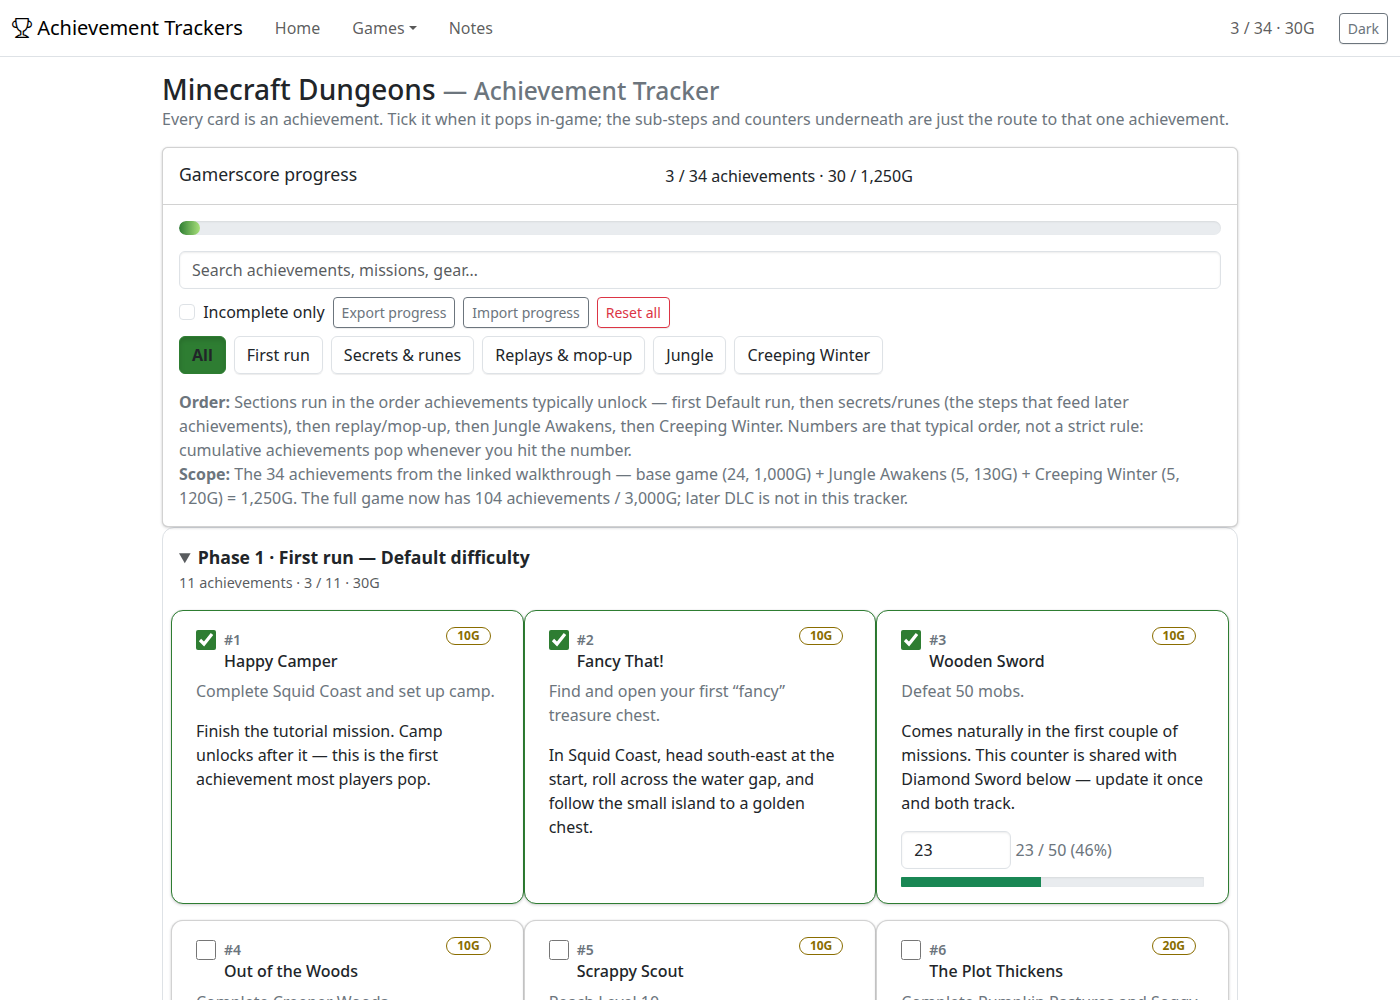
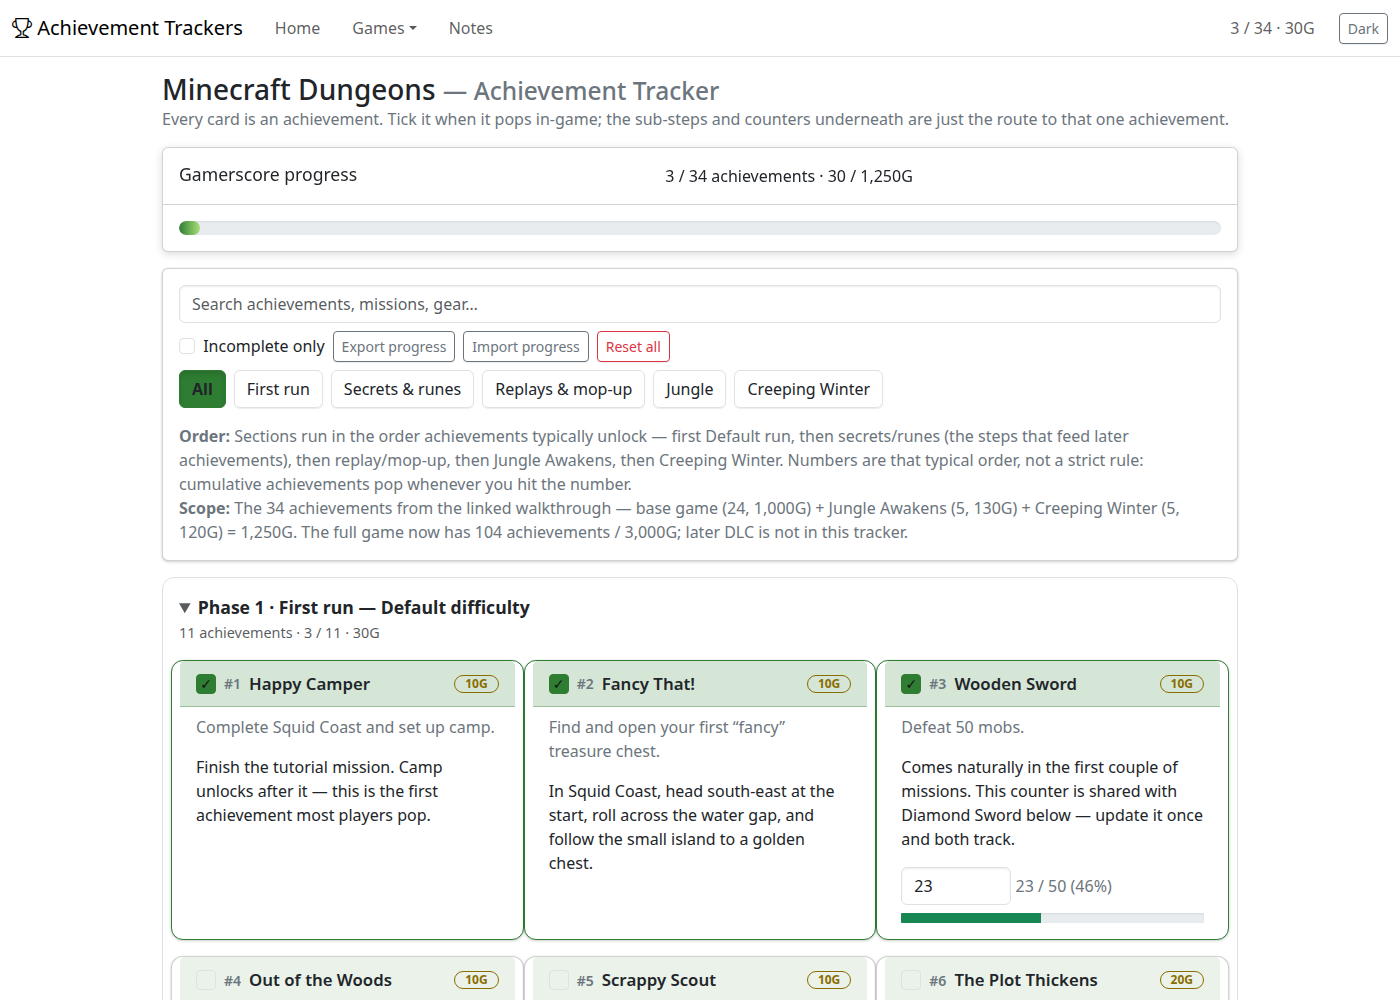
achievement-trackers: slim sticky progress bar, colorized centered headers

diff --git a/minecraft-dungeons/index.html b/minecraft-dungeons/index.html
@@ -30,31 +30,40 @@
      moss green + gold on a contained column — kept inside the
      AdminLTE shell (navbar, theme toggle, cards) rather than
      reverting to the standalone page. */
-  :root{--at-green:#2e7d32;--at-gold:#8a6d00}
-  [data-bs-theme="dark"]{--at-green:#7bc950;--at-gold:#e8b93c}
+  :root{--at-green:#2e7d32;--at-gold:#8a6d00;--at-header-bg:rgba(46,125,50,.10);--at-header-bg-pressed:rgba(46,125,50,.20);--at-header-border:rgba(46,125,50,.35)}
+  [data-bs-theme="dark"]{--at-green:#7bc950;--at-gold:#e8b93c;--at-header-bg:rgba(123,201,80,.13);--at-header-bg-pressed:rgba(123,201,80,.22);--at-header-border:rgba(123,201,80,.35)}
   /* v2's contained column, not AdminLTE's full-width fluid layout. */
   .app-main .container-fluid{max-width:1100px;margin-left:auto;margin-right:auto}
   /* Cards are grid columns: kill the card's own bottom margin so the
      row gutter is the only vertical spacing, and unify the header
      with the body (v2 had no divider strip inside a card). */
   .ach{margin-bottom:0;border-radius:12px}
-  .ach .card-header{background:transparent;border-bottom:0;padding-bottom:0}
+  /* Colorized headers: a green-tinted header with a green rule stands
+     out against the plain card body, instead of blending into it as
+     the old transparent header did. Pressed cards get a stronger tint. */
+  .ach .card-header{background:var(--at-header-bg);border-bottom:1px solid var(--at-header-border);padding-bottom:0}
   .ach .card-body{padding-top:.5rem}
   .ach:has(button.task[aria-pressed="true"]){border-color:var(--at-green)}
+  .ach:has(button.task[aria-pressed="true"]) .card-header{background:var(--at-header-bg-pressed)}
   /* The whole achievement header is the toggle: a button, not a small
      checkbox. The state box is only an indicator — the clickable area
      is the full header (name + Gamerscore), and the button's text
      content ("#1 Happy Camper 10G") is its accessible name. */
   .ach-head{padding:0}
-  .ach-head button.task{display:flex;gap:.5rem;align-items:flex-start;width:100%;text-align:left;background:transparent;border:0;padding:.75rem 1rem 0;color:inherit;cursor:pointer}
+  /* Header elements are vertically centered with each other: state
+     box, number, title and Gamerscore pill share one middle line,
+     instead of all sitting on the top edge. */
+  .ach-head button.task{display:flex;gap:.5rem;align-items:center;width:100%;text-align:left;background:transparent;border:0;padding:.75rem 1rem .75rem;color:inherit;cursor:pointer}
   .ach-head button.task:focus-visible{outline:2px solid var(--at-green);outline-offset:2px;border-radius:6px}
-  .task-state{width:20px;height:20px;flex:none;margin-top:3px;border:1px solid var(--bs-border-color);border-radius:4px;display:inline-flex;align-items:center;justify-content:center;font-size:14px;line-height:1}
+  .task-state{width:20px;height:20px;flex:none;border:1px solid var(--bs-border-color);border-radius:4px;display:inline-flex;align-items:center;justify-content:center;font-size:14px;line-height:1}
   button.task[aria-pressed="true"] .task-state{background:var(--at-green);border-color:var(--at-green);color:#12140f}
   button.task[aria-pressed="true"] .task-state::after{content:"✓"}
   .ach-name{font-size:1.05rem;line-height:1.3;font-weight:600;flex:1 1 auto}
-  /* Gamerscore progress card: pinned to the top of the viewport while
-     scrolling (the navbar scrolls away first, so top: 0 is right),
-     with a full 1rem gap before the first section. */
+  /* Only the progress bar card is pinned: the slim card holding the
+     Gamerscore title, counts and bar sticks to the top of the
+     viewport while scrolling (the navbar scrolls away first, so
+     top: 0 is right). Search, filters and the Order/Scope text live
+     in the card below it and scroll away normally. */
   .progress-card{position:sticky;top:0;z-index:1030;margin-bottom:1rem;box-shadow:0 2px 8px rgba(0,0,0,.15)}
   /* Gold outline pill, as in v2 — not Bootstrap's solid warning badge. */
   .ach .gs{background:transparent !important;color:var(--at-gold) !important;border:1px solid var(--at-gold);border-radius:99px;padding:2px 10px;font-weight:700;white-space:nowrap}
@@ -135,7 +144,12 @@
             <div class="progress" role="progressbar" aria-label="Gamerscore progress">
               <div class="progress-bar bg-success" id="overallBar" style="width:0%"></div>
             </div>
-            <div class="controls d-flex flex-wrap gap-2 align-items-center mt-3">
+          </div>
+        </div>
+
+        <div class="card mb-3">
+          <div class="card-body">
+            <div class="controls d-flex flex-wrap gap-2 align-items-center">
               <input type="search" id="search" class="form-control flex-grow-1" style="min-width:220px" placeholder="Search achievements, missions, gear…" aria-label="Search tracker">
               <label class="form-check-label"><input type="checkbox" id="incompleteOnly" class="form-check-input me-1"> Incomplete only</label>
               <button type="button" id="exportBtn" class="btn btn-outline-secondary btn-sm">Export progress</button>

diff --git a/tools/template.html b/tools/template.html
@@ -30,31 +30,40 @@
      moss green + gold on a contained column — kept inside the
      AdminLTE shell (navbar, theme toggle, cards) rather than
      reverting to the standalone page. */
-  :root{--at-green:#2e7d32;--at-gold:#8a6d00}
-  [data-bs-theme="dark"]{--at-green:#7bc950;--at-gold:#e8b93c}
+  :root{--at-green:#2e7d32;--at-gold:#8a6d00;--at-header-bg:rgba(46,125,50,.10);--at-header-bg-pressed:rgba(46,125,50,.20);--at-header-border:rgba(46,125,50,.35)}
+  [data-bs-theme="dark"]{--at-green:#7bc950;--at-gold:#e8b93c;--at-header-bg:rgba(123,201,80,.13);--at-header-bg-pressed:rgba(123,201,80,.22);--at-header-border:rgba(123,201,80,.35)}
   /* v2's contained column, not AdminLTE's full-width fluid layout. */
   .app-main .container-fluid{max-width:1100px;margin-left:auto;margin-right:auto}
   /* Cards are grid columns: kill the card's own bottom margin so the
      row gutter is the only vertical spacing, and unify the header
      with the body (v2 had no divider strip inside a card). */
   .ach{margin-bottom:0;border-radius:12px}
-  .ach .card-header{background:transparent;border-bottom:0;padding-bottom:0}
+  /* Colorized headers: a green-tinted header with a green rule stands
+     out against the plain card body, instead of blending into it as
+     the old transparent header did. Pressed cards get a stronger tint. */
+  .ach .card-header{background:var(--at-header-bg);border-bottom:1px solid var(--at-header-border);padding-bottom:0}
   .ach .card-body{padding-top:.5rem}
   .ach:has(button.task[aria-pressed="true"]){border-color:var(--at-green)}
+  .ach:has(button.task[aria-pressed="true"]) .card-header{background:var(--at-header-bg-pressed)}
   /* The whole achievement header is the toggle: a button, not a small
      checkbox. The state box is only an indicator — the clickable area
      is the full header (name + Gamerscore), and the button's text
      content ("#1 Happy Camper 10G") is its accessible name. */
   .ach-head{padding:0}
-  .ach-head button.task{display:flex;gap:.5rem;align-items:flex-start;width:100%;text-align:left;background:transparent;border:0;padding:.75rem 1rem 0;color:inherit;cursor:pointer}
+  /* Header elements are vertically centered with each other: state
+     box, number, title and Gamerscore pill share one middle line,
+     instead of all sitting on the top edge. */
+  .ach-head button.task{display:flex;gap:.5rem;align-items:center;width:100%;text-align:left;background:transparent;border:0;padding:.75rem 1rem .75rem;color:inherit;cursor:pointer}
   .ach-head button.task:focus-visible{outline:2px solid var(--at-green);outline-offset:2px;border-radius:6px}
-  .task-state{width:20px;height:20px;flex:none;margin-top:3px;border:1px solid var(--bs-border-color);border-radius:4px;display:inline-flex;align-items:center;justify-content:center;font-size:14px;line-height:1}
+  .task-state{width:20px;height:20px;flex:none;border:1px solid var(--bs-border-color);border-radius:4px;display:inline-flex;align-items:center;justify-content:center;font-size:14px;line-height:1}
   button.task[aria-pressed="true"] .task-state{background:var(--at-green);border-color:var(--at-green);color:#12140f}
   button.task[aria-pressed="true"] .task-state::after{content:"✓"}
   .ach-name{font-size:1.05rem;line-height:1.3;font-weight:600;flex:1 1 auto}
-  /* Gamerscore progress card: pinned to the top of the viewport while
-     scrolling (the navbar scrolls away first, so top: 0 is right),
-     with a full 1rem gap before the first section. */
+  /* Only the progress bar card is pinned: the slim card holding the
+     Gamerscore title, counts and bar sticks to the top of the
+     viewport while scrolling (the navbar scrolls away first, so
+     top: 0 is right). Search, filters and the Order/Scope text live
+     in the card below it and scroll away normally. */
   .progress-card{position:sticky;top:0;z-index:1030;margin-bottom:1rem;box-shadow:0 2px 8px rgba(0,0,0,.15)}
   /* Gold outline pill, as in v2 — not Bootstrap's solid warning badge. */
   .ach .gs{background:transparent !important;color:var(--at-gold) !important;border:1px solid var(--at-gold);border-radius:99px;padding:2px 10px;font-weight:700;white-space:nowrap}
@@ -135,7 +144,12 @@
             <div class="progress" role="progressbar" aria-label="Gamerscore progress">
               <div class="progress-bar bg-success" id="overallBar" style="width:0%"></div>
             </div>
-            <div class="controls d-flex flex-wrap gap-2 align-items-center mt-3">
+          </div>
+        </div>
+
+        <div class="card mb-3">
+          <div class="card-body">
+            <div class="controls d-flex flex-wrap gap-2 align-items-center">
               <input type="search" id="search" class="form-control flex-grow-1" style="min-width:220px" placeholder="Search achievements, missions, gear…" aria-label="Search tracker">
               <label class="form-check-label"><input type="checkbox" id="incompleteOnly" class="form-check-input me-1"> Incomplete only</label>
               <button type="button" id="exportBtn" class="btn btn-outline-secondary btn-sm">Export progress</button>

diff --git a/CHANGELOG.md b/CHANGELOG.md
@@ -4,6 +4,21 @@ All notable changes to this project are documented here. Dates are
 when the change landed, not version numbers — this repo is not
 versioned; the git log is the release history.
 
+## 2026-11-03 — Slim sticky progress bar, colorized headers
+
+### Changed
+
+- Only the progress bar sticks now: the Gamerscore progress card was
+  split in two, so the slim card holding the title, counts and bar
+  pins to the top while scrolling, and search, filters and the
+  Order/Scope text scroll away normally. This supersedes the previous
+  whole-card sticky behaviour.
+- Achievement card headers are now colorized: a moss-green tint with
+  a green rule underneath, stronger when the achievement is done, so
+  the header stands out against the plain card body in both themes.
+- Header elements are vertically centered with each other: state
+  box, number, title and Gamerscore pill share one middle line.
+
 ## 2026-11-03 — Clickable card headers, sticky progress card
 
 ### Changed
